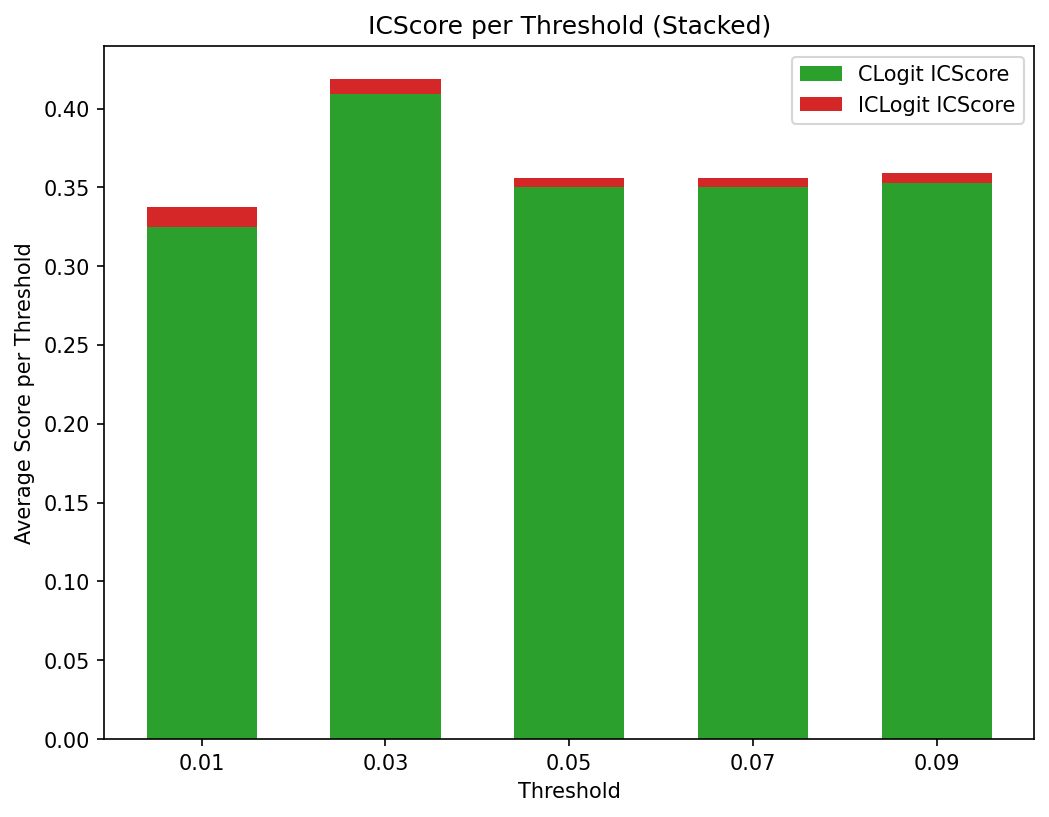
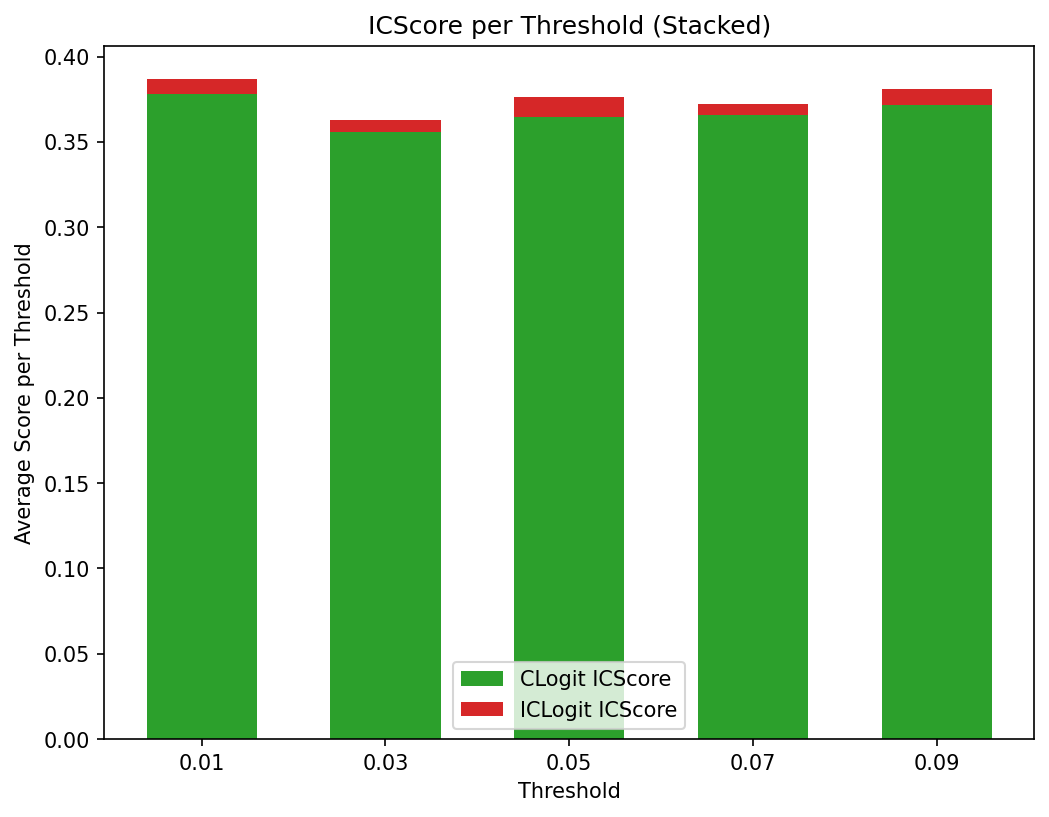
sdf

diff --git a/next_num_statistics.py b/next_num_statistics.py
@@ -81,13 +81,13 @@ def get_statistics(thresholds, threshold_index):
                         max_dist = dist
                     num_dist += 1
                     average_temp_dist += dist
-                    if score > max_score:
-                        #print('im here')
-                        max_score = score
-                        max_score_num = idx[0,k].item()
-                        #print('max_score_num is ', max_score_num)
                     candidates[j-block_size].append((k,idx[0,k].item()))
                     all_candidates.append((k,idx[0,k].item()))
+                if score > max_score:
+                    #print('im here')
+                    max_score = score
+                    max_score_num = idx[0,k].item()
+                    #print('max_score_num is ', max_score_num)
             average_max_dist += max_dist
             average_temp_dist /= num_dist
             average_dist += average_temp_dist
@@ -144,13 +144,15 @@ def get_statistics(thresholds, threshold_index):
 
 thresholds = [0.01, 0.03, 0.05, 0.07, 0.09]
 threshold_index = 0
-num_tries = 10
+num_tries = 100
 ave_clogit_cscore_perthreshold = np.zeros(len(thresholds))
 ave_iclogit_cscore_perthreshold = np.zeros(len(thresholds))
 ave_clogit_icscore_perthreshold = np.zeros(len(thresholds))
 ave_iclogit_icscore_perthreshold = np.zeros(len(thresholds))
 ave_count_perthreshold = np.zeros(len(thresholds))
 ave_count_perlocation = np.zeros(block_size)
+ave_clogit_icscore_perlocation = np.zeros(block_size)
+ave_iclogit_icscore_perlocation = np.zeros(block_size)
 for counter in range(num_tries):
     count_perlocation, count_perthreshold, lsperlocation, lsperthreshold, am_perlocation, am_perthreshold = get_statistics(thresholds, threshold_index)
     clogit_cscore_perthreshold, clogit_icscore_perthreshold, iclogit_cscore_perthreshold, iclogit_icscore_perthreshold = lsperthreshold
@@ -158,13 +160,14 @@ for counter in range(num_tries):
     clogit_cscore_perlocation, clogit_icscore_perlocation, iclogit_cscore_perlocation, iclogit_icscore_perlocation = lsperlocation
     average_dist_perlocation, max_dist_perlocation = am_perlocation
     
-    #print(f'clogit_cscore_perthreshold is {clogit_cscore_perthreshold}')
     ave_clogit_cscore_perthreshold += clogit_cscore_perthreshold
     ave_iclogit_cscore_perthreshold += iclogit_cscore_perthreshold
     ave_clogit_icscore_perthreshold += clogit_icscore_perthreshold
     ave_iclogit_icscore_perthreshold += iclogit_icscore_perthreshold
     ave_count_perthreshold += count_perthreshold
     ave_count_perlocation += count_perlocation
+    ave_clogit_icscore_perlocation += clogit_icscore_perlocation
+    ave_iclogit_icscore_perlocation += iclogit_icscore_perlocation
 
 ave_clogit_cscore_perthreshold /= num_tries
 ave_iclogit_cscore_perthreshold /= num_tries
@@ -172,6 +175,8 @@ ave_clogit_icscore_perthreshold /= num_tries
 ave_iclogit_icscore_perthreshold /= num_tries
 ave_count_perthreshold /= num_tries
 ave_count_perlocation /= num_tries
+ave_clogit_icscore_perlocation /= num_tries
+ave_iclogit_icscore_perlocation /= num_tries
 
 # Save data to file for later comparison
 data_file = f'plots_{wlnorm}layernorm/statistics_data.npz'
@@ -193,6 +198,8 @@ print(f'ave_clogit_cscore_perthreshold is {ave_clogit_cscore_perthreshold}')
 print(f'ave_iclogit_cscore_perthreshold is {ave_iclogit_cscore_perthreshold}')
 print(f'ave_clogit_icscore_perthreshold is {ave_clogit_icscore_perthreshold}')
 print(f'ave_iclogit_icscore_perthreshold is {ave_iclogit_icscore_perthreshold}')
+print(f'ave_clogit_icscore_perlocation is {ave_clogit_icscore_perlocation}')
+print(f'ave_iclogit_icscore_perlocation is {ave_iclogit_icscore_perlocation}')
 x_pos = np.arange(len(thresholds))
 width = 0.6
 
@@ -243,4 +250,28 @@ plt.title('Average Count per Location')
 plt.grid(True, alpha=0.3)
 plt.savefig('plots/count_perlocation.png', dpi=150, bbox_inches='tight')
 print('Plot saved to plots/count_perlocation.png')
+plt.close()
+
+# Fifth plot: ICScore per location — transparent total bar with solid ICLogit portion
+fig, ax = plt.subplots(figsize=(7, 4))
+location_indices = np.arange(block_size)
+total_icscore = ave_clogit_icscore_perlocation + ave_iclogit_icscore_perlocation
+bar_width = 0.8
+ax.bar(location_indices, total_icscore, bar_width,
+       color='#6a3d9a', alpha=0.22, edgecolor='#6a3d9a', linewidth=0.8,
+       label='Total incorrect scores')
+ax.bar(location_indices, ave_iclogit_icscore_perlocation, bar_width,
+       color='#d7191c', alpha=0.85,
+       label='Fraction with incorrect logits')
+ax.set_xlabel('Position in output sequence', fontsize=12)
+ax.set_ylabel('Fraction with incorrect score', fontsize=12)
+ax.set_title('Incorrect attention score (ICScore) per position', fontsize=13, fontweight='bold')
+ax.legend(fontsize=10, framealpha=0.9)
+ax.grid(True, axis='y', alpha=0.2, linestyle=':')
+ax.tick_params(labelsize=10)
+ax.spines['top'].set_visible(False)
+ax.spines['right'].set_visible(False)
+fig.tight_layout()
+fig.savefig('plots/icscore_perlocation.png', dpi=300, bbox_inches='tight')
+print('Plot saved to plots/icscore_perlocation.png')
 plt.close()

diff --git a/compare_topk.py b/compare_topk.py
@@ -1,0 +1,33 @@
+import numpy as np
+import os
+import matplotlib
+matplotlib.use('Agg')
+import matplotlib.pyplot as plt
+
+data_without = np.load('plots_withoutlayernorm/topk_inclusion_data.npz')
+data_with = np.load('plots_withlayernorm/topk_inclusion_data.npz')
+
+k_values = data_without['k_values']
+pct_without = data_without['inclusion_percentages']
+pct_with = data_with['inclusion_percentages']
+
+os.makedirs('plots', exist_ok=True)
+output_path = 'plots/compare_topk_inclusion.png'
+
+fig, ax = plt.subplots(figsize=(4.5, 4))
+ax.plot(k_values, pct_without, marker='o', linewidth=2.2, markersize=7, label='Without LayerNorm', color='#6a3d9a')
+ax.plot(k_values, pct_with, marker='s', linewidth=2.2, markersize=7, label='With LayerNorm', color='#e6850e')
+ax.set_xticks(k_values)
+ax.set_xlabel('k (Top-k attention over previous positions)', fontsize=12)
+ax.set_ylabel('Inclusion percentage (%)', fontsize=12)
+ax.set_title('Top-k Inclusion of Next Number', fontsize=13, fontweight='bold')
+ax.legend(fontsize=10, framealpha=0.9)
+ax.grid(True, alpha=0.2, linestyle=':')
+ax.tick_params(labelsize=11)
+ax.spines['top'].set_visible(False)
+ax.spines['right'].set_visible(False)
+fig.tight_layout()
+fig.savefig(output_path, dpi=300, bbox_inches='tight')
+plt.close()
+
+print(f'Plot saved to {output_path}')
